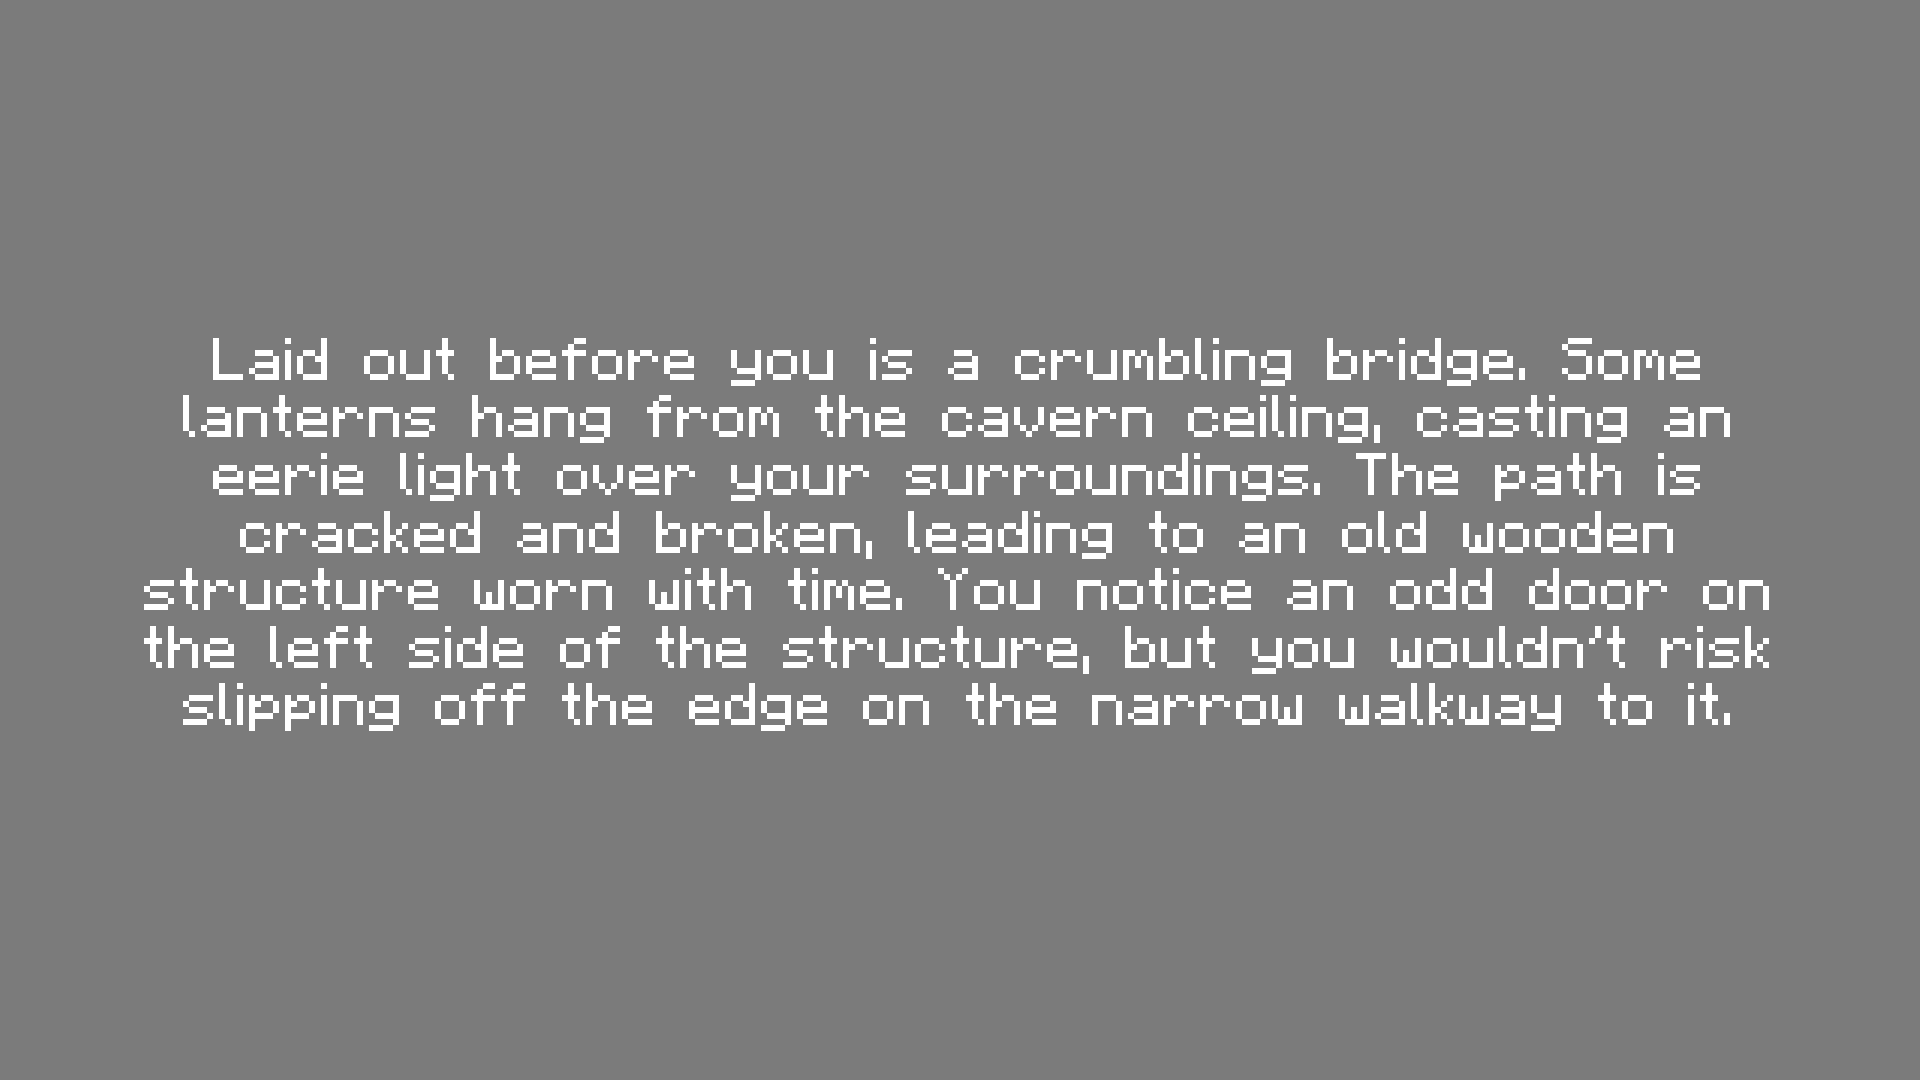
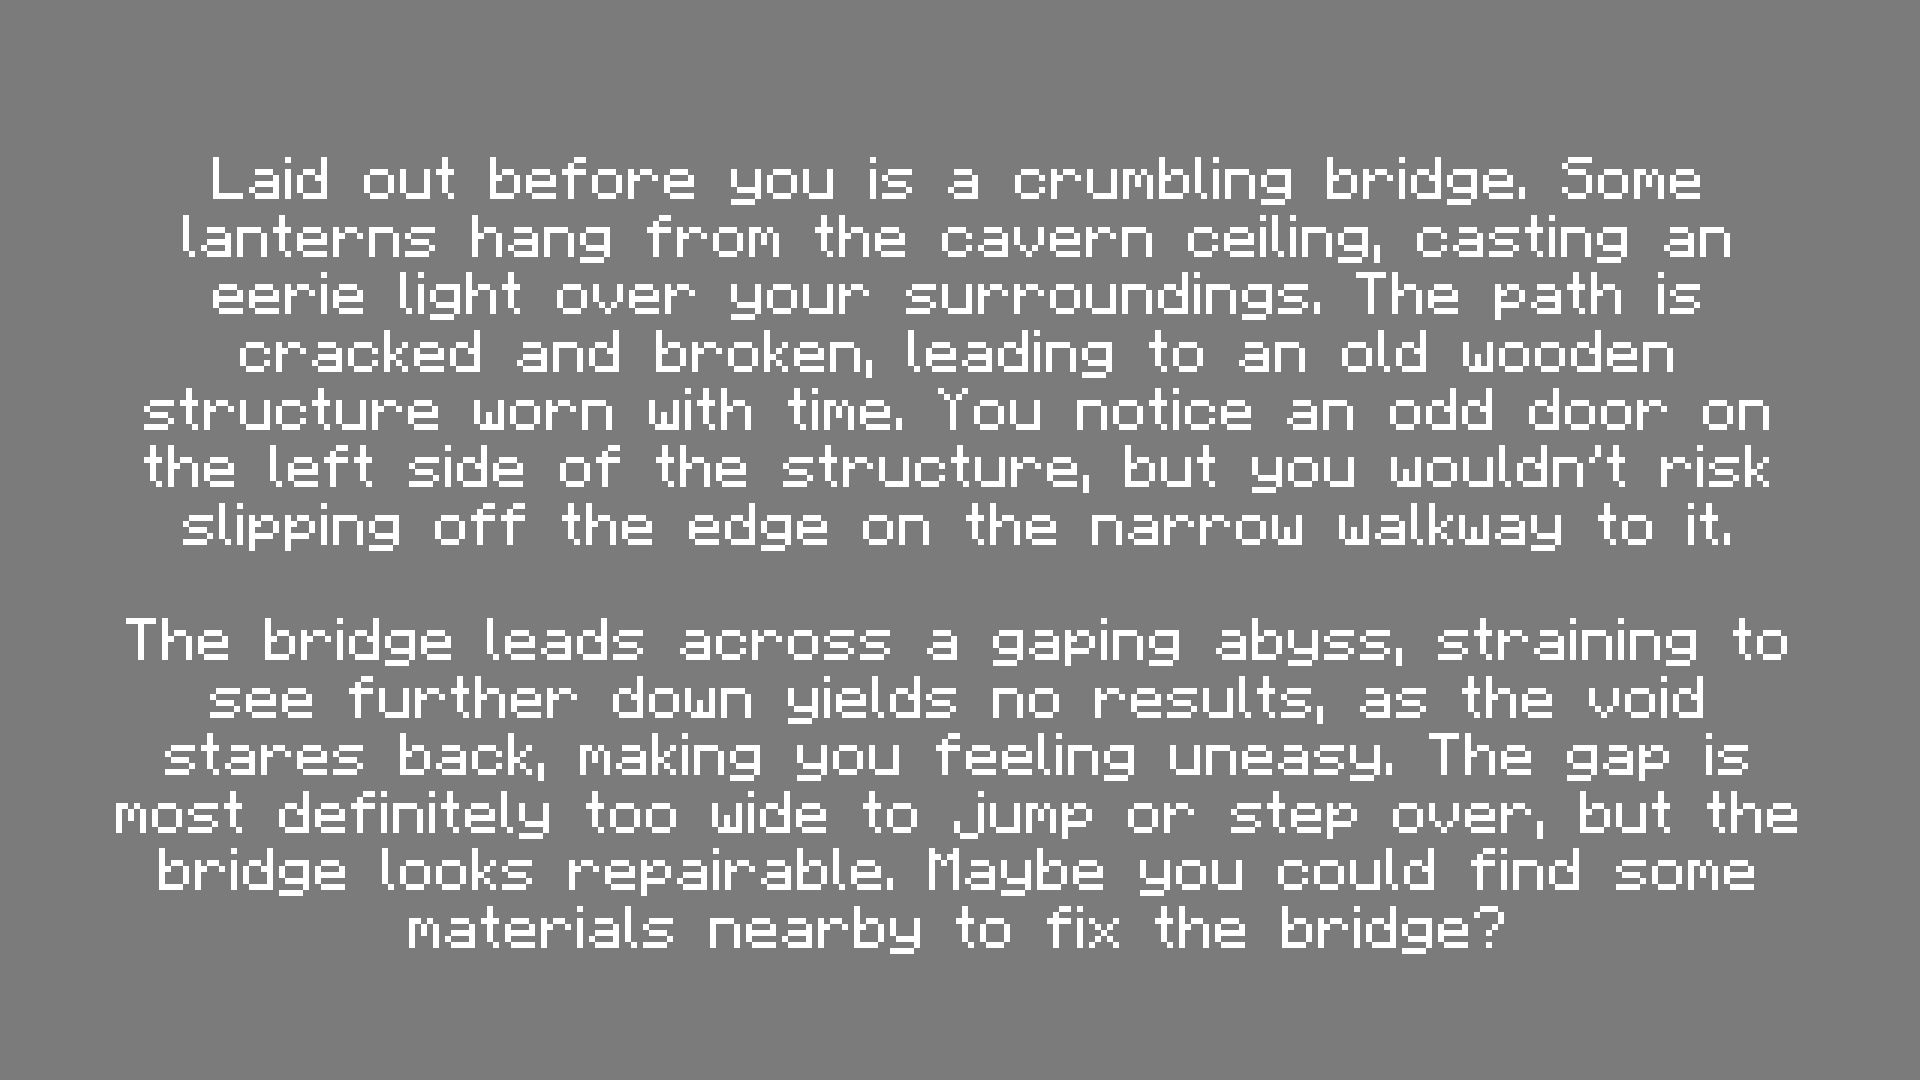
implement P2S2 desc

Changed region(s): [[0.0625, 0.1528, 0.9375, 0.8861]]

diff --git a/core/src/lchs/cs/hme/screens/FirstPuzzle.java b/core/src/lchs/cs/hme/screens/FirstPuzzle.java
@@ -27,6 +27,7 @@ public class FirstPuzzle implements Screen{
 	
 	// starts the game with you looking at the observation text
 	boolean isObserving = true;
+	String currentObservations = "P2S1";
 	
 	// turns to true when the player solves the puzzle
 	boolean isComplete = false;
@@ -64,6 +65,7 @@ public class FirstPuzzle implements Screen{
 	Texture bg6;
 	Texture bg7;
 	Texture P2S1;
+	Texture P2S2;
 	
 	// Sounds
 	Sound clickSound;
@@ -100,6 +102,7 @@ public class FirstPuzzle implements Screen{
 		bg7 = new Texture ("images/backgrounds/leveltwo/bg7.png");
 		
 		P2S1 = new Texture ("images/scenedescriptions/secondlevel/P2S1.png");
+		P2S2 = new Texture ("images/scenedescriptions/secondlevel/P2S2.png");
 		
 		compassNorth = new Texture ("images/compass/compass-north.gif");
 		compassSouth = new Texture ("images/compass/compass-south.gif");
@@ -336,6 +339,7 @@ public class FirstPuzzle implements Screen{
 				break;
 				//after the player types "use lever"
 			case "bg3":
+				currentObservations = "P2S2";
 				game.batch.draw(bg3, 0, 0, HerobrineEscape.WIDTH, HerobrineEscape.HEIGHT);
 				break;
 				//after the player types "use lever"
@@ -377,7 +381,14 @@ public class FirstPuzzle implements Screen{
 		
 		//if the observation text is supposed to be open it renders it
 		if (isObserving) {
-			game.batch.draw(P2S1, (HerobrineEscape.WIDTH/2)-(OBSERVEWIDTH/2), HerobrineEscape.HEIGHT/2-(OBSERVEHEIGHT/2), OBSERVEWIDTH, OBSERVEHEIGHT);					
+			switch(currentObservations) {
+				case "P2S1":
+					game.batch.draw(P2S1, (HerobrineEscape.WIDTH/2)-(OBSERVEWIDTH/2), HerobrineEscape.HEIGHT/2-(OBSERVEHEIGHT/2), OBSERVEWIDTH, OBSERVEHEIGHT);					
+					break;
+				case "P2S2":
+					game.batch.draw(P2S2, (HerobrineEscape.WIDTH/2)-(OBSERVEWIDTH/2), HerobrineEscape.HEIGHT/2-(OBSERVEHEIGHT/2), OBSERVEWIDTH, OBSERVEHEIGHT);					
+					break;
+			}
 		}
 		
 		
